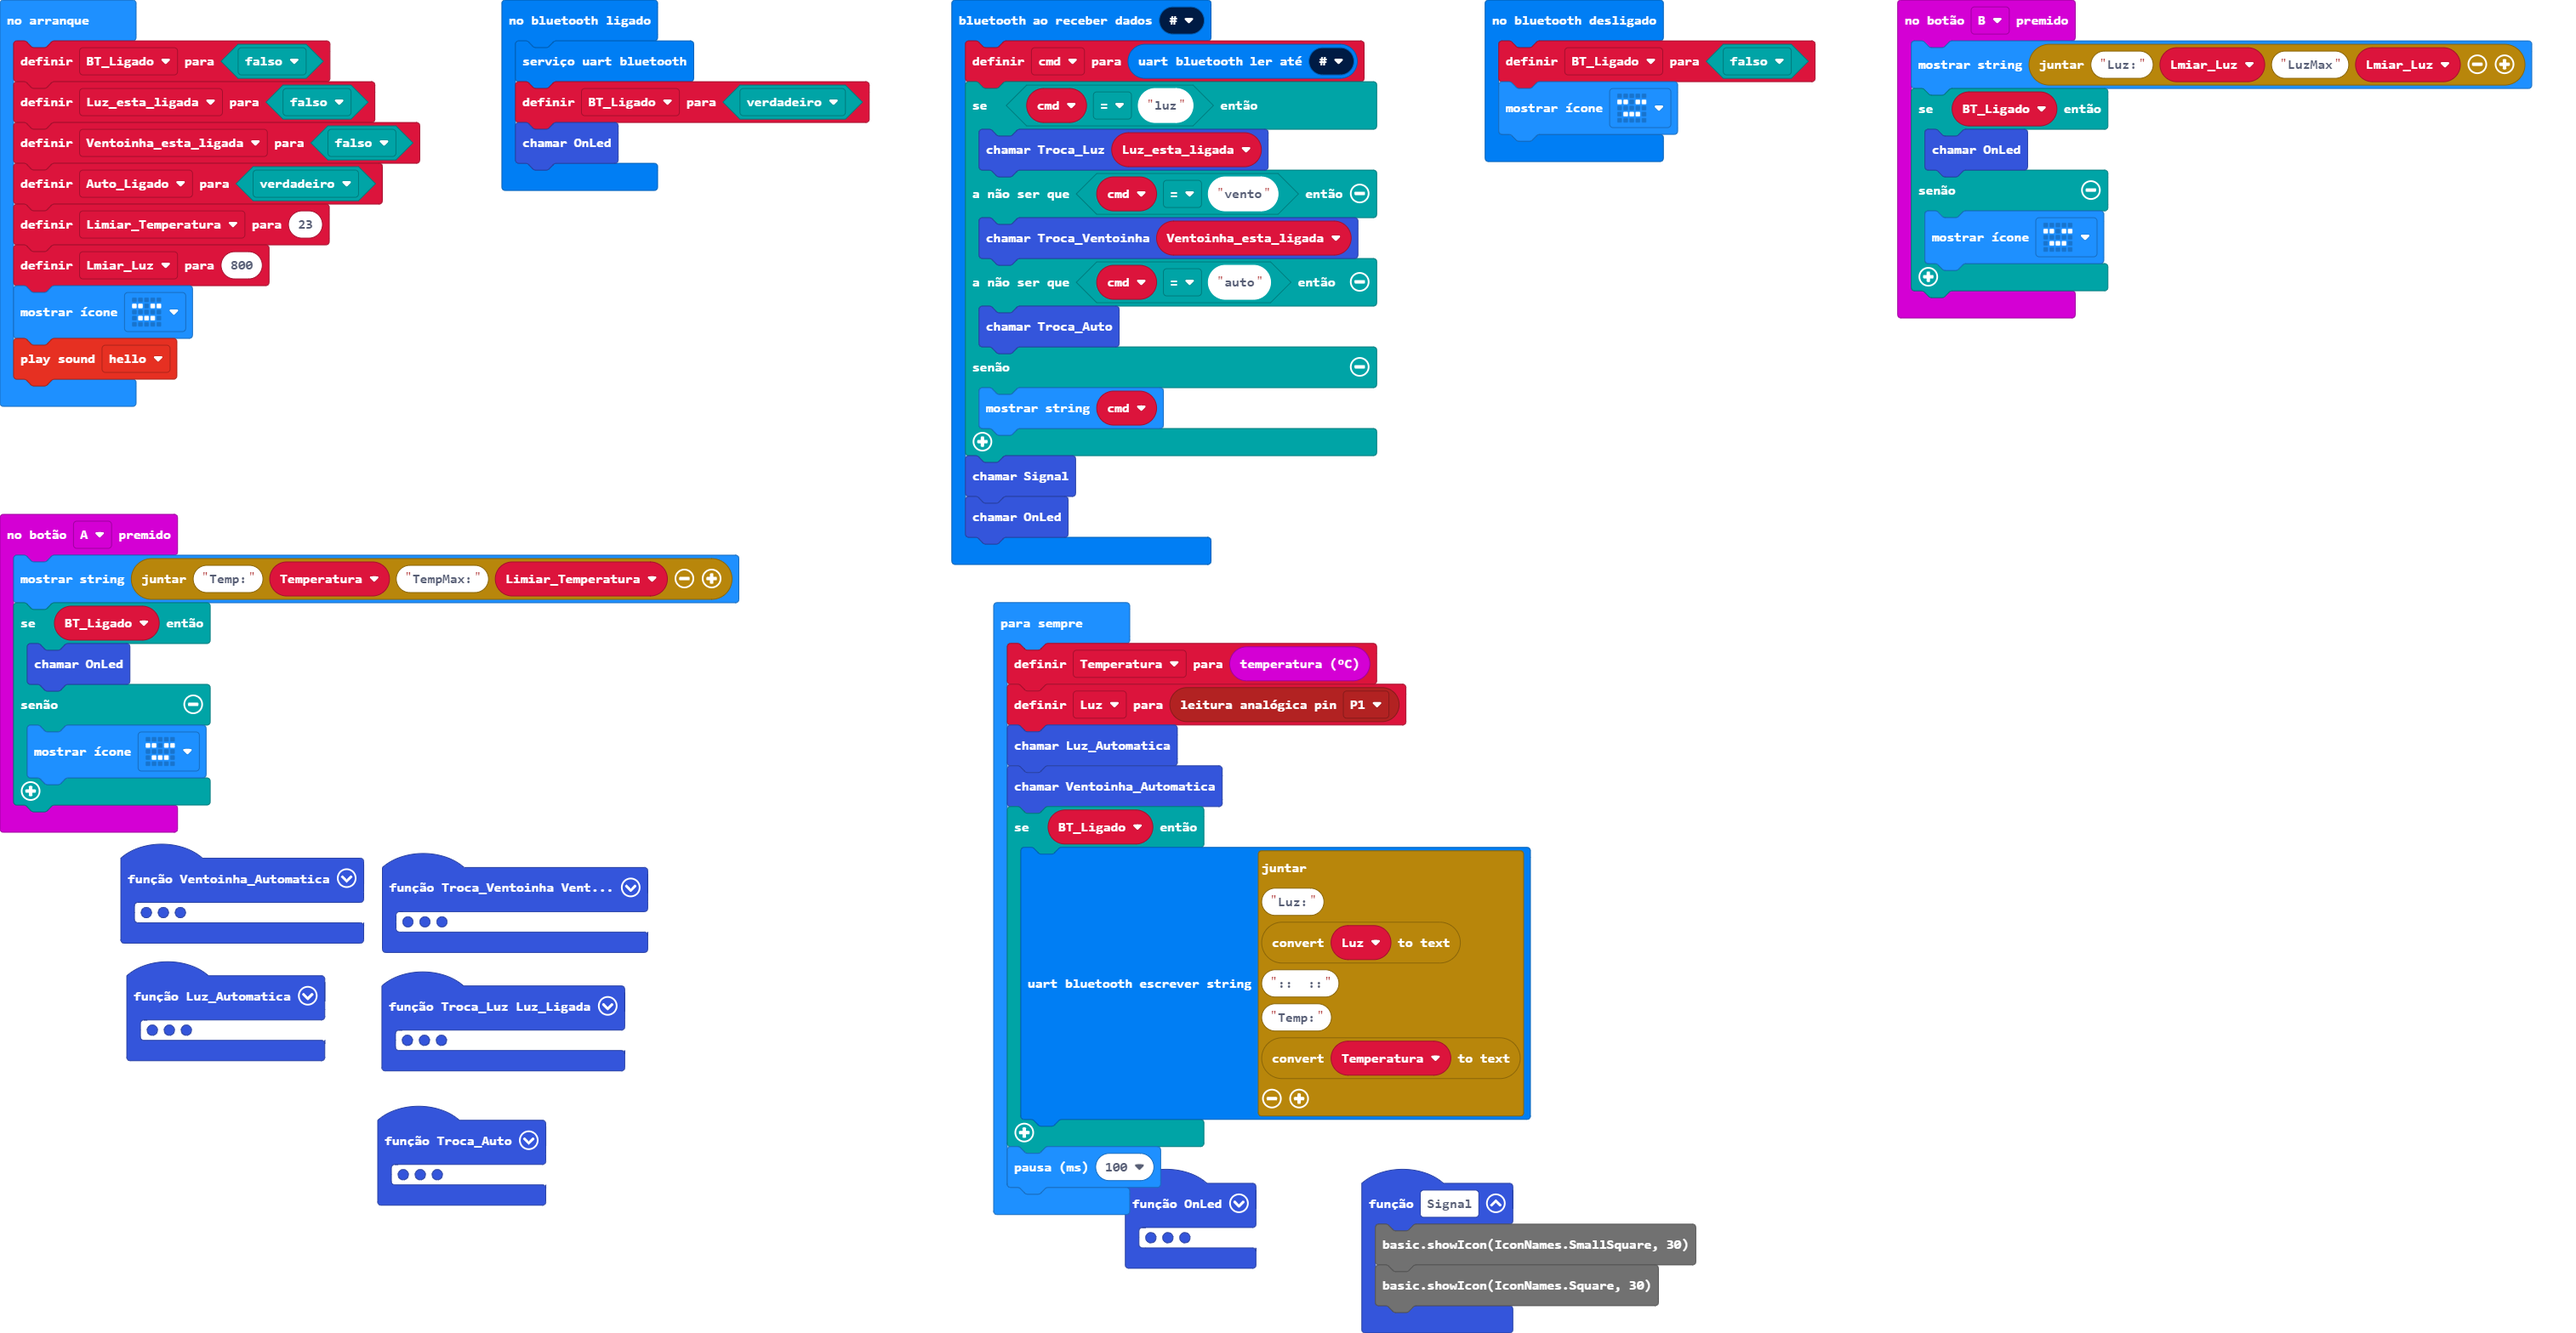
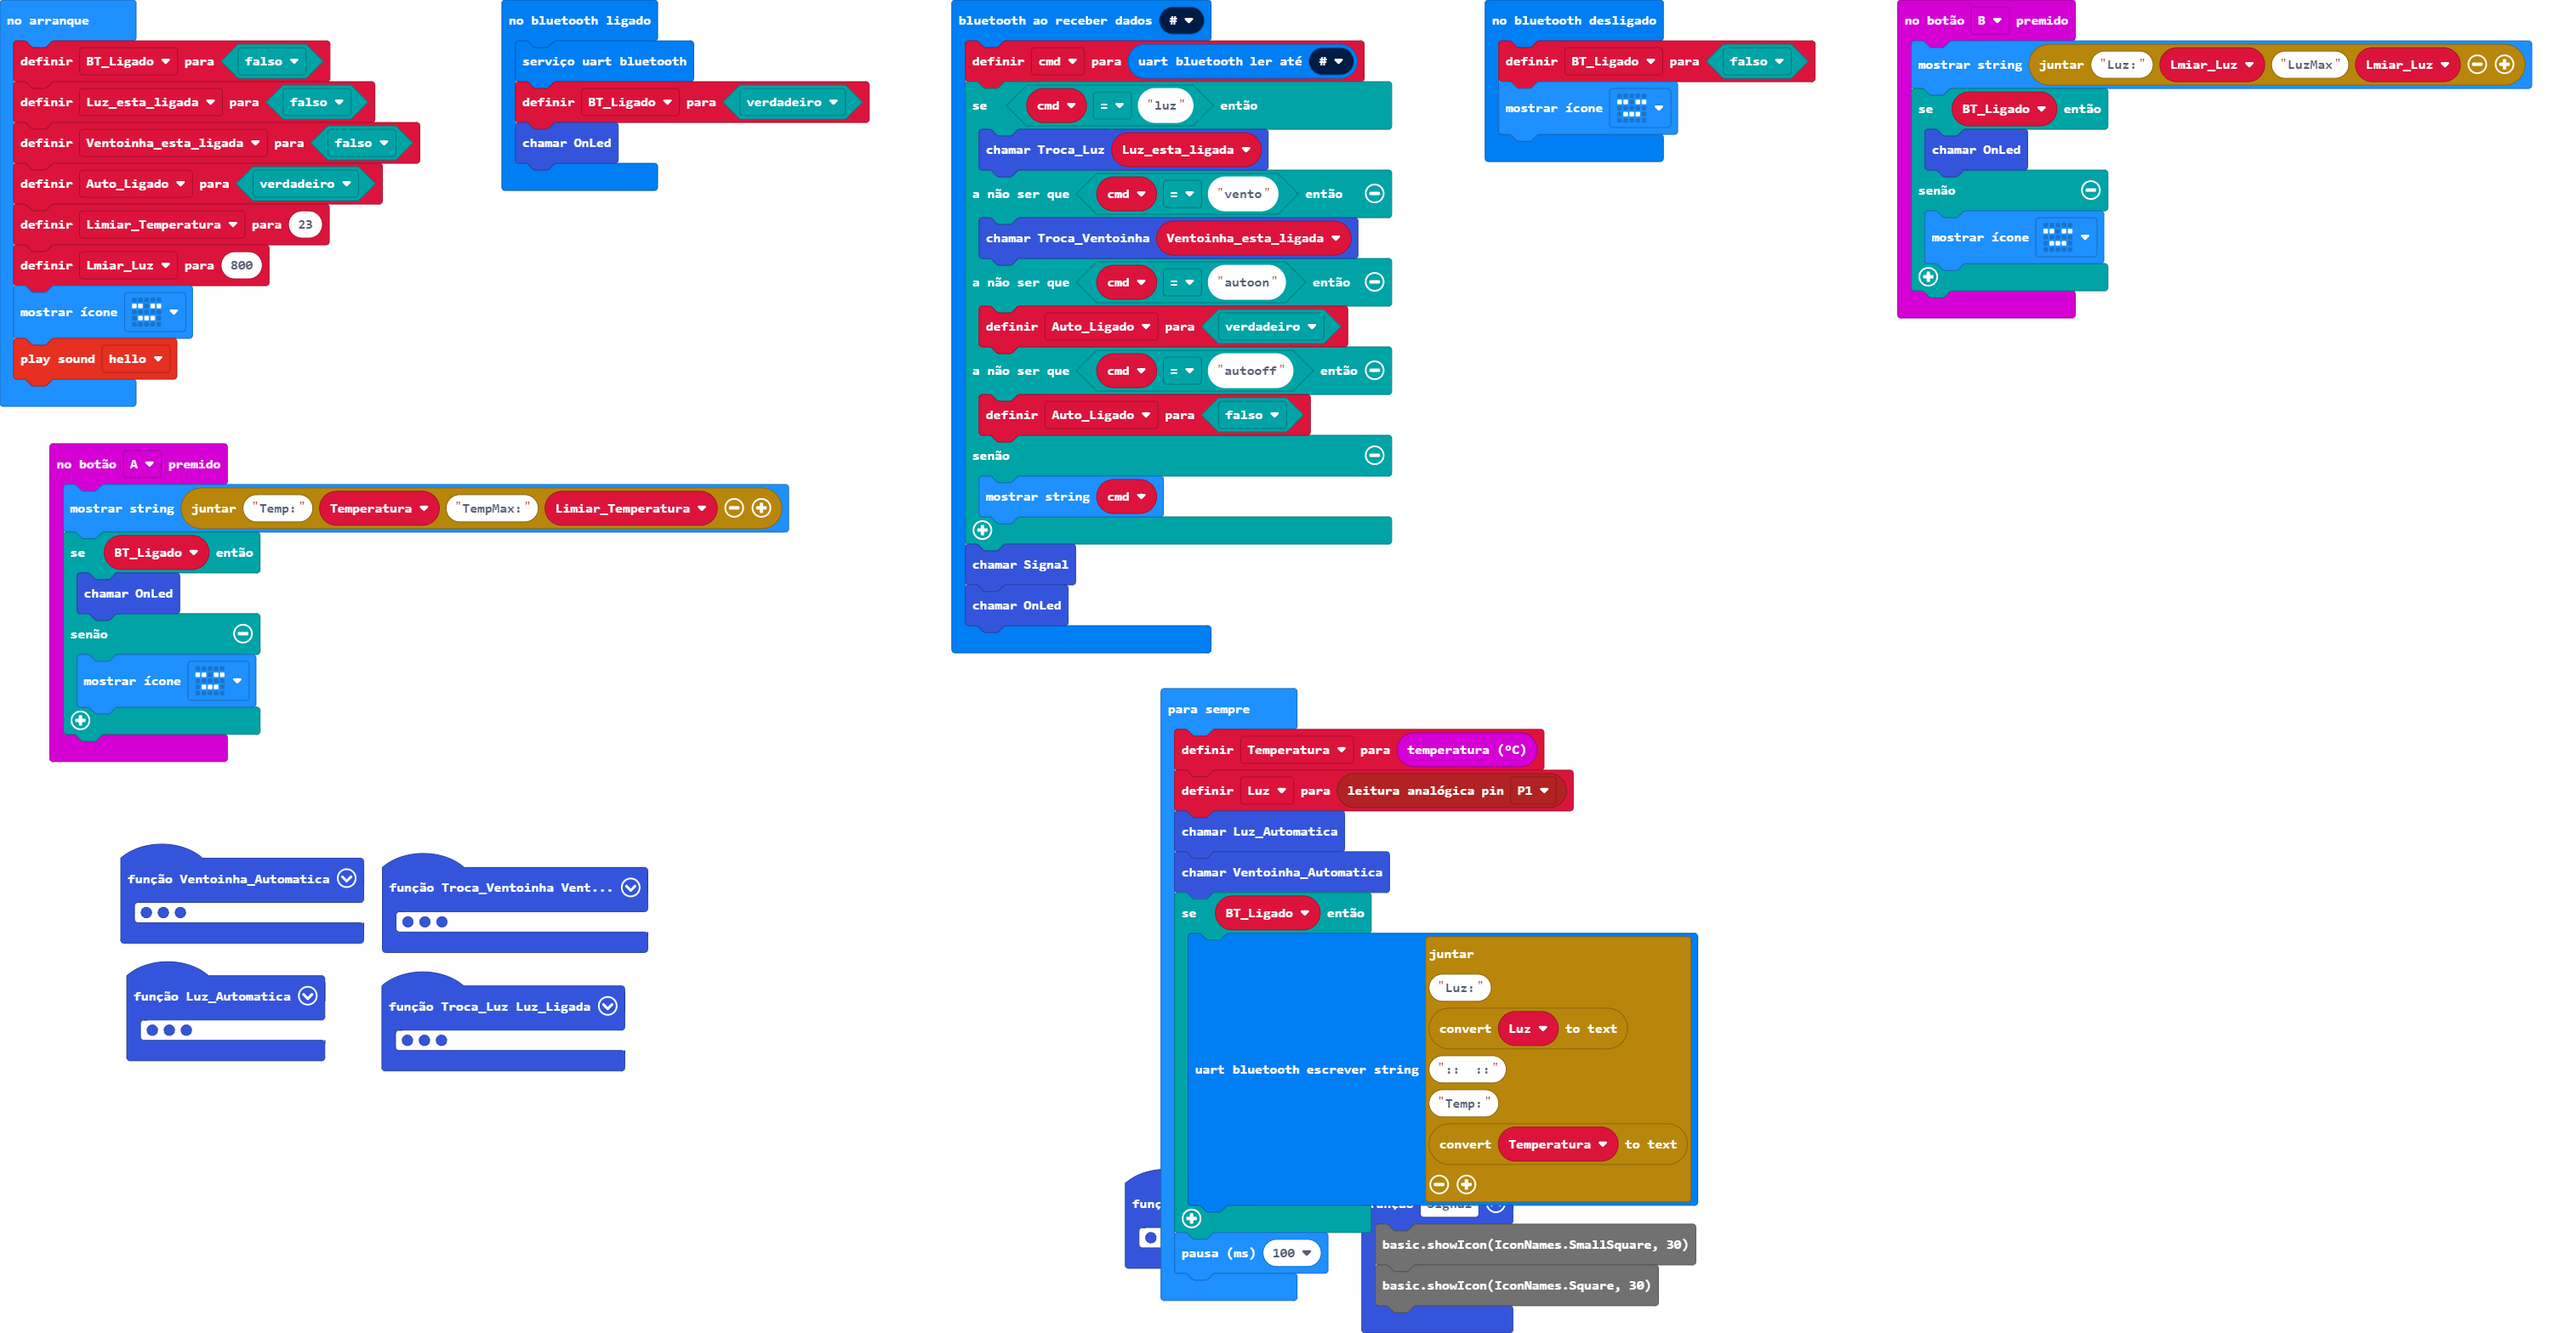
Updates

diff --git a/main.ts b/main.ts
@@ -39,8 +39,10 @@ bluetooth.onUartDataReceived(serial.delimiters(Delimiters.Hash), function () {
         Troca_Luz(Luz_esta_ligada)
     } else if (cmd == "vento") {
         Troca_Ventoinha(Ventoinha_esta_ligada)
-    } else if (cmd == "auto") {
-        Troca_Auto()
+    } else if (cmd == "autoon") {
+        Auto_Ligado = true
+    } else if (cmd == "autooff") {
+        Auto_Ligado = false
     } else {
         basic.showString(cmd)
     }
@@ -76,13 +78,6 @@ function Troca_Ventoinha (Ventoinha_Ligada: boolean) {
 function Signal () {
     basic.showIcon(IconNames.SmallSquare, 30)
 basic.showIcon(IconNames.Square, 30)
-}
-function Troca_Auto () {
-    if (Auto_Ligado) {
-        Auto_Ligado = false
-    } else {
-        Auto_Ligado = true
-    }
 }
 function OnLed () {
     basic.showLeds(`
